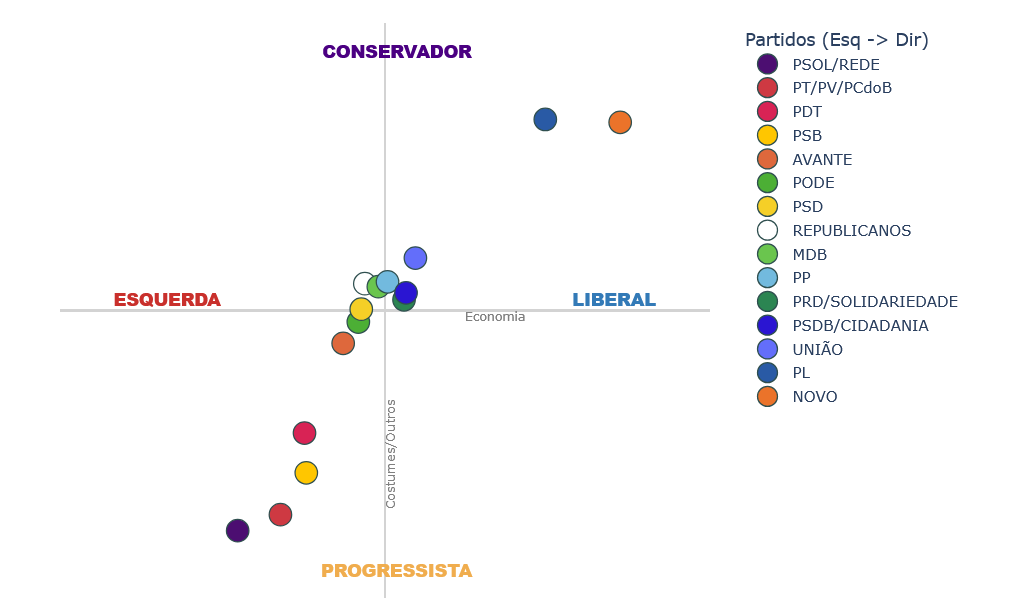
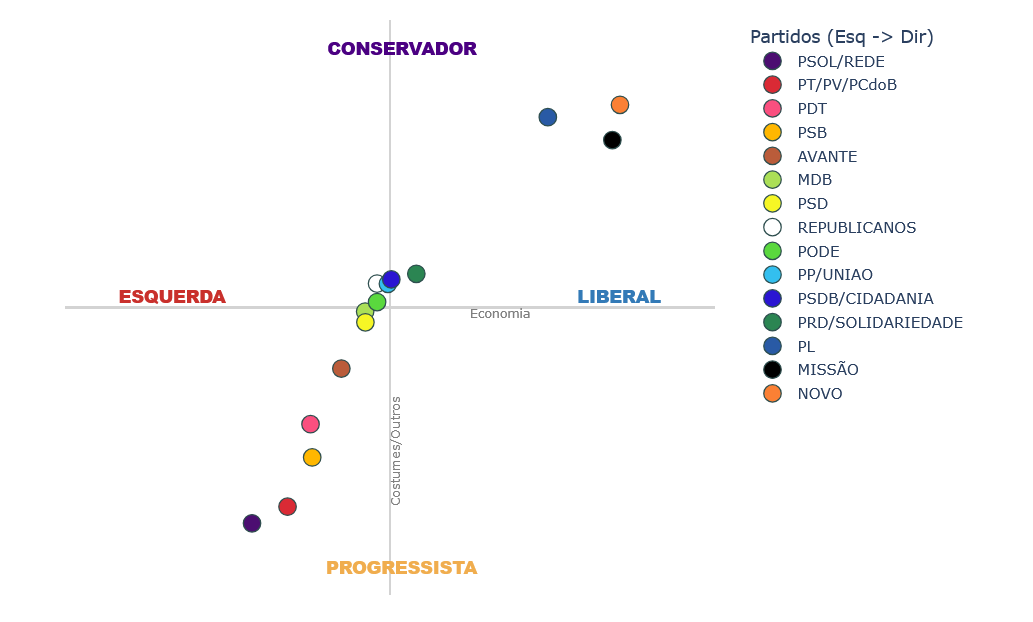
feat: atualizacao final das abas, imagens e preparacao para producao

diff --git a/src/app/pages/descobertas.py b/src/app/pages/descobertas.py
@@ -16,12 +16,12 @@ layout = dbc.Container([
 
 Os deputados foram divididos em 7 grupos segundo seu padrão de votação, utilizando um modelo de *machine learning*. São eles:
 - **Esquerda Ideológica**: formada por 15 deputados, incluindo toda a bancada do PSOL. Fiel às pautas da esquerda, o grupo apoia o Governo na maioria das votações, mas tende a se opor à base petista quando ela faz acordos ou concessões ao centro.
-- **Esquerda Governista**: são 83 deputados, majoritariamente da Federação PT/PV/PCdoB. Formam o núcleo duro do Governo Lula na Câmara. Embora mantenham forte identidade de esquerda, atuam com pragmatismo, negociando com o centro ou a oposição para aprovar pautas prioritárias.
-- **Progressistas Independentes**: a maioria dos 43 deputados desse grupo pertence a partidos de centro-esquerda, como PDT e PSB. Posicionam-se no campo progressista, mas com perfis variados: de sindicalistas tradicionais a jovens ativistas da educação ou da causa animal, por exemplo. É o segundo grupo mais governista, mas alguns integrantes demonstram independência e visões mais próxmias ao centro.
-- **Centrão Governista**: maior grupo da Câmara, com 108 deputados. Vota com o Governo em cerca de 83% das ocasiões, mas não por alinhamento ideológico, e sim por negociações políticas, frequentemente envolvendo emendas. Reúne parlamentares de legendas como Republicanos, PP, União Brasil, PSD e MDB.
-- **Centro Eclético**: como o nome sugere, é o grupos mais heterogêneo. Seus 99 deputados se dividem entre parlamentares com visão de centro, lideranças partidárias de legendas como MDB, PSDB e Podemos, figuras midiáticas, integrantes do centrão mais independentes e políticos municipalistas. O que os une é o perfil de votação moderado ou difuso, afastando-se tanto do Governo quanto da oposição conservadora.
-- **Direita Tradicional**: primeiro grupo claramente de oposição, com governismo médio de 42%. É composto por 59 deputados de centro-direita e direita, vindos de siglas como PL, União Brasil e PP. Também apresenta um perfil variado, mas abriga muitos representantes de setores tradicionais, como o agronegócio. Embora conservadores, não adotam uma postura intransigente. Alguns ocupam espaços de liderança na Casa e negociam pautas específicas com o Governo.
-- **Oposição Conservadora**: é o núcleo duro da oposição, com 80 deputados. Formado majoritariamente pelo PL, mas também pela bancada do Novo e por outros parlamentares de direita, possui índice de governismo inferior a 24%. É o grupo mais à direita da Câmara, combinando forte liberalismo econômico com posições conservadoras nos costumes e em outros temas sociais.     
+- **Esquerda Governista**: são 84 deputados, majoritariamente da Federação PT/PV/PCdoB. Formam o núcleo duro do Governo Lula na Câmara. Embora mantenham forte identidade de esquerda, atuam com pragmatismo, negociando com o centro ou a oposição para aprovar pautas prioritárias.
+- **Progressistas Independentes**: a maioria dos 41 deputados desse grupo pertence a partidos de centro-esquerda, como PDT e PSB. Posicionam-se no campo progressista, mas com perfis variados: de sindicalistas tradicionais a jovens ativistas da educação ou da causa animal, por exemplo. É o segundo grupo mais governista, mas alguns integrantes demonstram independência e visões mais próxmias ao centro.
+- **Centrão Governista**: maior grupo da Câmara, com 112 deputados. Vota com o Governo em cerca de 83% das ocasiões, mas não por alinhamento ideológico, e sim por negociações políticas, frequentemente envolvendo emendas. Reúne parlamentares de legendas como Republicanos, PP, União Brasil, PSD e MDB.
+- **Centro Eclético**: como o nome sugere, é o grupos mais heterogêneo. Seus 101 deputados se dividem entre parlamentares com visão de centro, lideranças partidárias de legendas como MDB, PSDB e Podemos, figuras midiáticas, integrantes do centrão mais independentes e políticos municipalistas. O que os une é o perfil de votação moderado ou difuso, afastando-se tanto do Governo quanto da oposição conservadora.
+- **Direita Tradicional**: primeiro grupo claramente de oposição, com governismo médio de 42%. É composto por 55 deputados de centro-direita e direita, vindos de siglas como PL, União Brasil e PP. Também apresenta um perfil variado, mas abriga muitos representantes de setores tradicionais, como o agronegócio. Embora conservadores, não adotam uma postura intransigente. Alguns ocupam espaços de liderança na Casa e negociam pautas específicas com o Governo.
+- **Oposição Conservadora**: é o núcleo duro da oposição, com 87 deputados. Formado majoritariamente pelo PL, mas também pela bancada do Novo e por outros parlamentares de direita, possui índice de governismo inferior a 24%. É o grupo mais à direita da Câmara, combinando forte liberalismo econômico com posições conservadoras nos costumes e em outros temas sociais.     
 
 Veja na imagem abaixo as posições médias de cada grupo.
             ''', className="markdown-texto", link_target="_blank"),
@@ -42,9 +42,9 @@ Veja na imagem abaixo as posições médias de cada grupo.
 
 ### Deputado médio: distância do governo e da oposição
                          
-A distância entre o deputado médio (parlamentar "fictício" que representa o posicionamento médio de todos os deputados) e o núcleo do Governo é de 9,3 unidades. Já em relação ao núcleo da oposição, a distância é de 12 unidades. Isso mostra que a Câmara apresenta uma média ligeiramente mais governista, porém relativamente distante de ambos os grupos.
+A distância entre o deputado médio (parlamentar "fictício" que representa o posicionamento médio de todos os deputados) e o núcleo do Governo é de 9,5 unidades. Já em relação ao núcleo da oposição, a distância é de 11,9 unidades. Isso mostra que a Câmara apresenta uma média ligeiramente mais governista, porém relativamente distante de ambos os grupos.
                          
-Separando por eixos, o deputado médio é cerca de 4,5 pontos mais liberal e 8,5 pontos mais conservador do que a esquerda governista. Já a oposição conservadora fica quase 8 pontos para a direita e 8,75 pontos para cima em relação à média da Casa.   
+Separando por eixos, o deputado médio é cerca de 4,4 pontos mais liberal e 8,4 pontos mais conservador do que a esquerda governista. Já a oposição conservadora fica 8 pontos para a direita e 8,8 pontos para cima em relação à média da Casa.   
             ''', className="markdown-texto", link_target="_blank"),
 
             # Imagem 2
@@ -57,7 +57,7 @@ Separando por eixos, o deputado médio é cerca de 4,5 pontos mais liberal e 8,5
             dcc.Markdown('''
 ### Partidos
                          
-O PSOL é o partido mais à esquerda e progressista. Já na outra ponta, o Novo é o mais liberal na economia e o PL é o mais conservador. Veja as posições médias de cada partido ou federação abaixo.
+O PSOL é o partido mais à esquerda e progressista. Já na outra ponta, o Novo é o que apresenta, em média, as votações mais liberais e conservadoras. Veja as posições médias de cada partido ou federação partidária abaixo.
             ''', className="markdown-texto", link_target="_blank"),
 
             # Imagem 3
@@ -68,20 +68,20 @@ O PSOL é o partido mais à esquerda e progressista. Já na outra ponta, o Novo 
 
  # Bloco de texto 4
             dcc.Markdown('''
-Há diferentes níveis de coesão partidária. Algumas legendas possuem uma ideologia bem definida e seus membros votam de forma alinhada (alta coesão), enquanto outras abrigam deputados com posições bastante variadas (alta dispersão).
+Há diferentes níveis de coesão partidária. Alguns partidos e federações partidárias possuem uma ideologia bem definida e seus membros votam de forma alinhada (alta coesão), enquanto outros abrigam deputados com padões de votação bastante variados (alta dispersão).
 Em ordem decrescente de coesão, temos:
-- **Alta coesão**: PCdoB, PSOL, PT, Novo, PV e PSB.
-- **Média coesão**: PDT, Republicanos, PL, Podemos, PSD, Solidariedade.
-- **Baixa coesão**: Avante, PSDB, MDB, PP, Cidadania, União Brasil, PRD.
+- **Alta coesão**: PT/PV/PCdoB, PSOL/Rede, Novo, PDT, PSB.
+- **Média coesão**: Avante, PL, Republicanos, MDB.
+- **Baixa coesão**: PSDB/Cidadania, PSD, Podemos, PP/União Brasil, PRD/Solidariedade.
 
 No gráfico, isso é visível ao filtrar por partido. Legendas de alta coesão aparecem como pontos concentrados, enquanto as de baixa coesão mostram pontos espalhados pelo mapa.
                           
-**Observação**: a Rede não entrou no cálculo de coesão por possuir apenas um deputado ativo na análise. 
+**Observação**: o partido Missão não entrou no cálculo de coesão, pois possui apenas um deputado federal. 
 \n
 \n
 
 ### Outras descobertas e curiosidades:
-- **Gênero**: embora a diferença estatística seja pequena, parlamentares do gênero feminino ficam, em média, 0,5 ponto mais à esquerda e 1,7 ponto mais progressistas do que seus colegas do gênero masculino.
+- **Gênero**: embora a diferença estatística seja pequena, parlamentares do gênero feminino ficam, em média, 0,4 ponto mais à esquerda e são 1,6 ponto mais progressistas do que seus colegas do gênero masculino.
             ''', className="markdown-texto", link_target="_blank"),
 
             # Imagem 4
@@ -96,7 +96,7 @@ No gráfico, isso é visível ao filtrar por partido. Legendas de alta coesão a
 
             # Bloco de texto 5
             dcc.Markdown('''
-- **A "Diagonal Brasileira"**: na Câmara brasileira atual, as posições progressistas nos costumes tendem a caminhar junto com o intervencionismo na economia e o liberalismo econômico anda de mãos dadas com o conservadorismo moral. Para observar esse fenômeno no gráfico, basta notar que o canto superior esquerdo (estatismo conservador) e o inferior direito (liberalismo progressista) estão praticamente vazios. Quase todos os deputados se alinham na diagonal que vai da esquerda progressista à direita conservadora. 
+- **Esquerda 🤝 Progressismo x Liberalismo econômico 🤝 Conservadorismo**: na Câmara brasileira atual, as posições progressistas nos costumes tendem a caminhar junto com o intervencionismo na economia e o liberalismo econômico anda de mãos dadas com o conservadorismo moral. Para observar esse fenômeno no gráfico, basta notar que o canto superior esquerdo (estatismo conservador) e o inferior direito (liberalismo progressista) estão praticamente vazios.
             ''', className="markdown-texto", link_target="_blank"),
 
             # Imagem 5

diff --git a/src/app/pages/home.py b/src/app/pages/home.py
@@ -21,23 +21,23 @@ except:
 
 # Mapeamento de Cores
 CORES_CLUSTER = {
-    '0': '#17ea39', '1': '#1ebfec', '2': '#A7194B', '3': '#e7c2c0',
-    '4': '#FFCD00', '5': '#FE2712', '6': '#3E01A4'
+    '0': '#FFCD00', '1': '#17ea39', '2': '#e7c2c0', '3': '#1ebfec',
+    '4': '#3E01A4', '5': '#FE2712', '6': '#A7194B'
 }
 
 NOMES_CLUSTER = {
-    '0': 'Oposição Conservadora', '1': 'Centro Eclético', '2': 'Esquerda Ideológica',
-    '3': 'Centrão Governista', '4': 'Progressistas Independentes',
-    '5': 'Esquerda Governista', '6': 'Direita Tradicional'
+    '0': 'Progressistas Independentes', '1': 'Oposição Conservadora', '2': 'Centrão Governista',
+    '3': 'Centro Eclético', '4': 'Direita Tradicional',
+    '5': 'Esquerda Governista', '6': 'Esquerda Ideológica'
 }
 
 CORES_PARTIDO = {
-    'PT': '#CE3942', 'PV': '#CE3942', 'PCdoB': '#CE3942', 'PL': '#295AA5',
-    'PSOL': '#4C0E71', 'REDE': '#4C0E71', 'UNIAO':'#33BFEF',
-    'PP': '#72BADE', 'PSD': '#F5CF27', 'MDB': '#6AC54E',
+    'PT': "#DA2A35", 'PV': '#DA2A35', 'PCdoB': '#DA2A35', 'PL': '#295AA5',
+    'PSOL': '#4C0E71', 'REDE': '#4C0E71', 'UNIAO':'#33BFEF', 'UNIÃO': '#33BFEF',
+    'PP': '#33BFEF', 'PSD': "#F6F625", 'MDB': "#ABDF57",
     'PSDB': '#2A15D2', 'CIDADANIA': '#2A15D2', 'PRD': '#2B8552', 'SOLIDARIEDADE': '#2B8552',
-    'NOVO': '#EB732A', 'PDT': '#D82355', 'AVANTE': '#DE683C',
-    'PODE': '#4CAF35', 'PSB': '#FFC600', 'REPUBLICANOS': "#FFFFFF"
+    'NOVO': "#FB8034", 'PDT': "#FA4F7F", 'AVANTE': "#BA5C3A",
+    'PODE': "#5AD83E", 'PSB': "#FFB700", 'REPUBLICANOS': "#FFFFFF", 'MISSÃO':"#000000"
 }
 COR_PARTIDO_DEFAULT = '#999999'
 
@@ -61,7 +61,9 @@ MAPA_FEDERACOES = {
     # Federação PSDB-Cidadania
     'PSDB': 'PSDB/CIDADANIA', 'CIDADANIA': 'PSDB/CIDADANIA',
     # Federação PRD-Solidariedade
-    'PRD': 'PRD/SOLIDARIEDADE', 'SOLIDARIEDADE': 'PRD/SOLIDARIEDADE'
+    'PRD': 'PRD/SOLIDARIEDADE', 'SOLIDARIEDADE': 'PRD/SOLIDARIEDADE',
+    # Federação PP-UNIAO
+    'PP': 'PP/UNIAO', 'UNIAO': 'PP/UNIAO' 
 }
 
 # Tratamento inicial dos dados
@@ -69,12 +71,8 @@ if not df.empty:
     df['cluster'] = df['cluster'].astype(str)
     df['deputado_siglaPartido'] = df['deputado_siglaPartido'].astype(str).str.strip()
     df['deputado_siglaPartido'] = df['deputado_siglaPartido'].apply(lambda x: 'UNIAO' if 'UNI' in x else x)
-    mudancas_partido = {
-        'Tiririca': 'PSD',
-        'Luiz Lima': 'NOVO'
-    }
-    for deputado, novo_partido in mudancas_partido.items():
-        df.loc[df['deputado_nome'] == deputado, 'deputado_siglaPartido'] = novo_partido
+    
+    # Cria a coluna label_busca "on the fly" para o dropdown
     df['label_busca'] = df['deputado_nome'] + ' (' + df['deputado_siglaPartido'] + '-' + df['deputado_siglaUf'] + ')'
 
 # Geração de listas para os filtros
@@ -217,7 +215,13 @@ def update_dashboard(color_mode, dep_selecionado, partido_selecionado, estado_se
     if color_mode == 'partido':
         dff['legenda'] = dff['deputado_siglaPartido'].replace(MAPA_FEDERACOES)
         cores_mapa = CORES_PARTIDO.copy()
-        cores_mapa.update({'PT/PV/PCdoB': CORES_PARTIDO['PT'], 'PSOL/REDE': CORES_PARTIDO['PSOL'], 'PSDB/CIDADANIA': CORES_PARTIDO['PSDB'], 'PRD/SOLIDARIEDADE': CORES_PARTIDO['PRD']})
+        cores_mapa.update({
+            'PT/PV/PCdoB': CORES_PARTIDO['PT'], 
+            'PSOL/REDE': CORES_PARTIDO['PSOL'], 
+            'PSDB/CIDADANIA': CORES_PARTIDO['PSDB'], 
+            'PRD/SOLIDARIEDADE': CORES_PARTIDO['PRD'],
+            'PP/UNIAO': CORES_PARTIDO['UNIAO']
+        })
         dff['cor_final'] = dff['deputado_siglaPartido'].map(CORES_PARTIDO).fillna(COR_PARTIDO_DEFAULT)
     else:
         dff['cor_final'] = dff['cluster'].map(CORES_CLUSTER)
@@ -286,14 +290,28 @@ def update_dashboard(color_mode, dep_selecionado, partido_selecionado, estado_se
             trace.marker.line.color = trace.customdata[:, 5]
 
     data_list = list(fig.data)
-    centrao_trace = None
-    for trace in data_list:
-        if trace.name in ORDEM_VISUAL_CLUSTERS: trace.legendrank = ORDEM_VISUAL_CLUSTERS.index(trace.name)
-        if trace.name == 'Centrão Governista': centrao_trace = trace
-    if centrao_trace:
-        data_list.remove(centrao_trace) 
-        data_list.append(centrao_trace) 
-    fig.data = tuple(data_list)
+    
+    if color_mode == 'cluster':
+        traces_ordenados = []
+       
+        for nome_cluster in ORDEM_VISUAL_CLUSTERS:
+            if nome_cluster not in ['Esquerda Governista', 'Centrão Governista']:
+                for trace in data_list:
+                    if trace.name == nome_cluster:
+                        trace.legendrank = ORDEM_VISUAL_CLUSTERS.index(trace.name)
+                        traces_ordenados.append(trace)
+
+        esq_gov_trace = next((t for t in data_list if t.name == 'Esquerda Governista'), None)
+        if esq_gov_trace:
+            esq_gov_trace.legendrank = ORDEM_VISUAL_CLUSTERS.index('Esquerda Governista')
+            traces_ordenados.append(esq_gov_trace)
+
+        centrao_trace = next((t for t in data_list if t.name == 'Centrão Governista'), None)
+        if centrao_trace:
+            centrao_trace.legendrank = ORDEM_VISUAL_CLUSTERS.index('Centrão Governista')
+            traces_ordenados.append(centrao_trace)
+            
+        fig.data = tuple(traces_ordenados)
 
     # Layout responsivo
     fig.update_xaxes(range=[-12.5, 12.5], autorange=False, zeroline=False, showgrid=False, showticklabels=False, title="")
@@ -315,7 +333,7 @@ def update_dashboard(color_mode, dep_selecionado, partido_selecionado, estado_se
 
     fig.add_scatter(x=[6], y=[-0.6], text=["↔ Economia"], mode="text", textposition="middle center", textfont=dict(size=max(8, fonte_anotacoes-2), color="#ccc"), showlegend=False, hoverinfo="skip")
     fig.add_annotation(x=0.3, y=-8, text="Costumes/Outros ↔", textangle=-90, showarrow=False, font=dict(size=max(8, fonte_anotacoes-2), color="#ccc"))
-    fig.add_scatter(x=[-9], y=[-12], text=["Dados atualizados até 01/02/2026"], mode="text", textposition="middle center", textfont=dict(size=max(8, fonte_anotacoes-4), color="#ccc"), showlegend=False, hoverinfo="skip")
+    fig.add_scatter(x=[-9], y=[-12], text=["Dados atualizados até 13/05/2026"], mode="text", textposition="middle center", textfont=dict(size=max(8, fonte_anotacoes-4), color="#ccc"), showlegend=False, hoverinfo="skip")
 
     fig.add_scatter(x=[-12], y=[-1.8], text=["<b>← ESQUERDA</b>"], mode="text", textposition="middle right", textfont=dict(size=fonte_anotacoes, color="#CE3942"), showlegend=False, hoverinfo="skip")
     fig.add_scatter(x=[12], y=[1.8], text=["<b>LIBERAL →</b>"], mode="text", textposition="middle left", textfont=dict(size=fonte_anotacoes, color="#418ACB"), showlegend=False, hoverinfo="skip")

diff --git a/src/app/pages/quem_somos.py b/src/app/pages/quem_somos.py
@@ -21,6 +21,10 @@ Para garantir a confiabilidade das informações, operamos com transparência ab
 
 Somos uma equipe independente, sem filiação partidária ou vínculo com grupos políticos. Mais do que isso, somos plurais. O grupo é composto por estudantes com visões de mundo distintas, incluindo membros de esquerda, centro e direita unidos pelo rigor jornalístico. Nossa metodologia combina Ciência Política, matemática e análise de dados para entregar um retrato fiel e imparcial do debate legislativo, empoderando o eleitor com informação de qualidade.
 
+### Acesse aqui nosso [Instagram](https://www.instagram.com/bussoladacamara/)!    
+                         
+&nbsp;              
+                          
 ### Nossa Equipe
 
 **Coordenação Geral e Desenvolvimento: Ricardo Grandi Bianco** ([LinkedIn](https://www.linkedin.com/in/ricardo-grandi-bianco-897b3a180/))
@@ -31,11 +35,16 @@ Idealização do projeto e da metodologia. Responsável pela liderança da equip
 
 Criação da marca, idealização da identidade visual e da interface do usuário (UI/UX).
 
-**Relações Públicas e Institucionais: Felipe Ockner** ([LinkedIn](https://www.linkedin.com/in/felipe-ockner-352420267/))
+**Relações Públicas e Institucionais:** 
+* **Felipe Ockner** ([LinkedIn](https://www.linkedin.com/in/felipe-ockner-352420267/))
+* **Matheus Roviezzo** ([LinkedIn](https://www.linkedin.com/in/matheus-roviezzo-11081928a/))
 
-Responsável pela divulgação estratégica, pelos relatórios acadêmicos de extensão e pelo relacionamento com stakeholders.
+Responsáveis pela divulgação estratégica, pelos relatórios acadêmicos de extensão e pelo relacionamento com stakeholders.
 
-**Social Media e Conteúdo: Evelyn Dantas** ([LinkedIn](https://www.linkedin.com/in/evelyn-dantas-gomes-ferreira?utm_source=share_via&utm_content=profile&utm_medium=member_ios))
+**Social Media e Conteúdo:** 
+* **Evelyn Dantas** ([LinkedIn](https://www.linkedin.com/in/evelyn-dantas-gomes-ferreira?utm_source=share_via&utm_content=profile&utm_medium=member_ios))
+* **Gustavo Calmon** ([LinkedIn](https://www.linkedin.com/in/gustavo-calmon/))
+* **Lucas Tinoco** ([LinkedIn](https://www.linkedin.com/in/lucas-l-tinoco-47a88a250/))                      
 
 Gestão das redes sociais e criação de conteúdo digital para engajamento do público.
 
